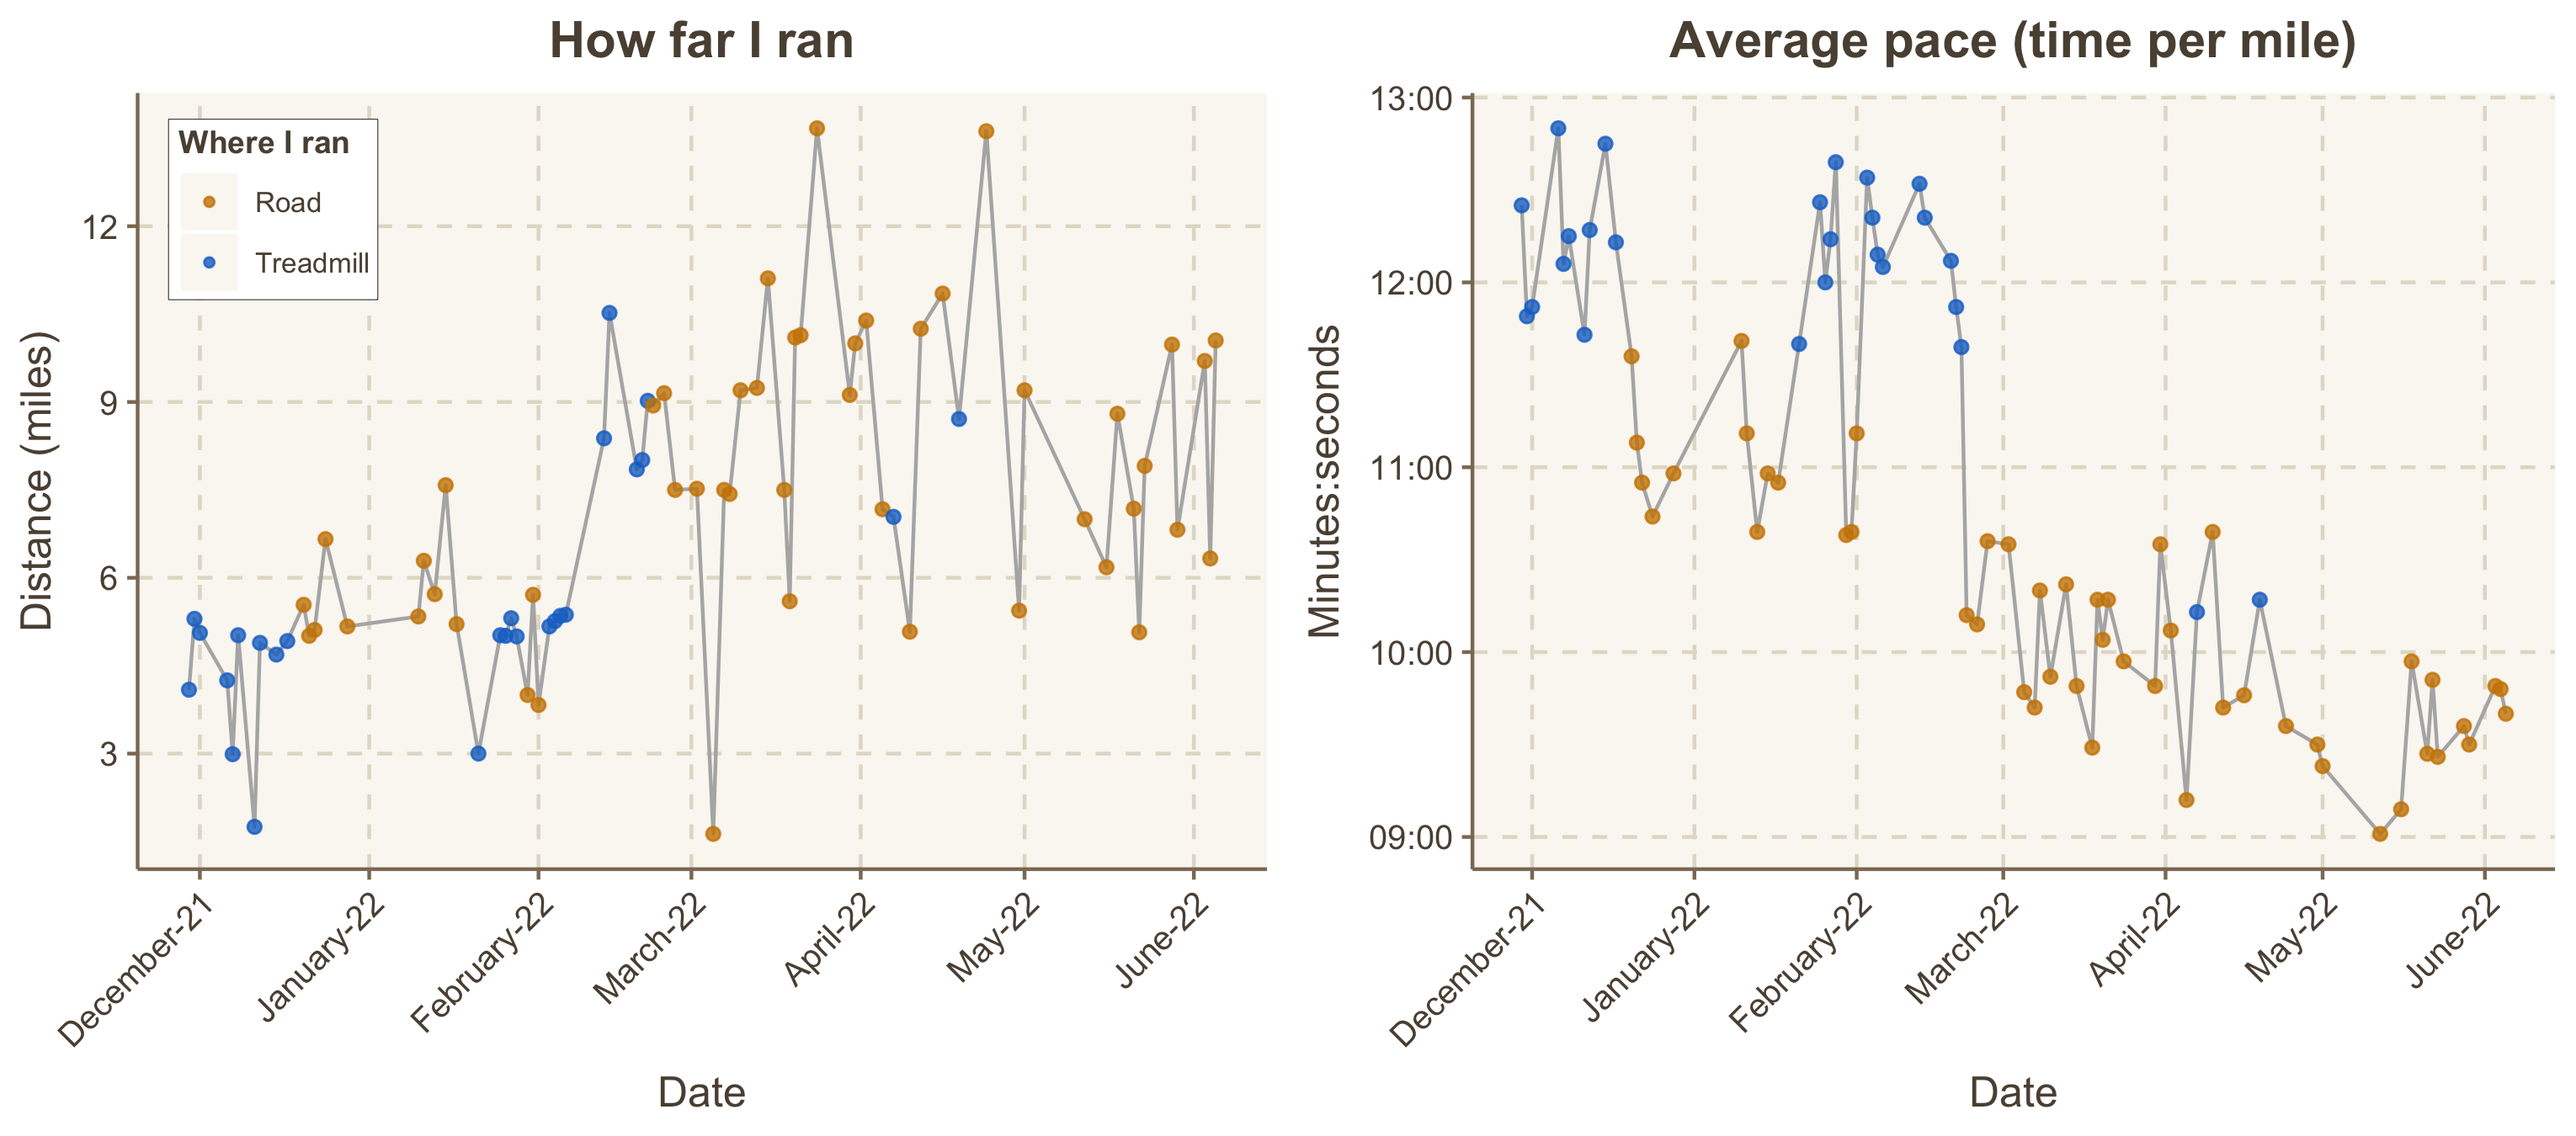
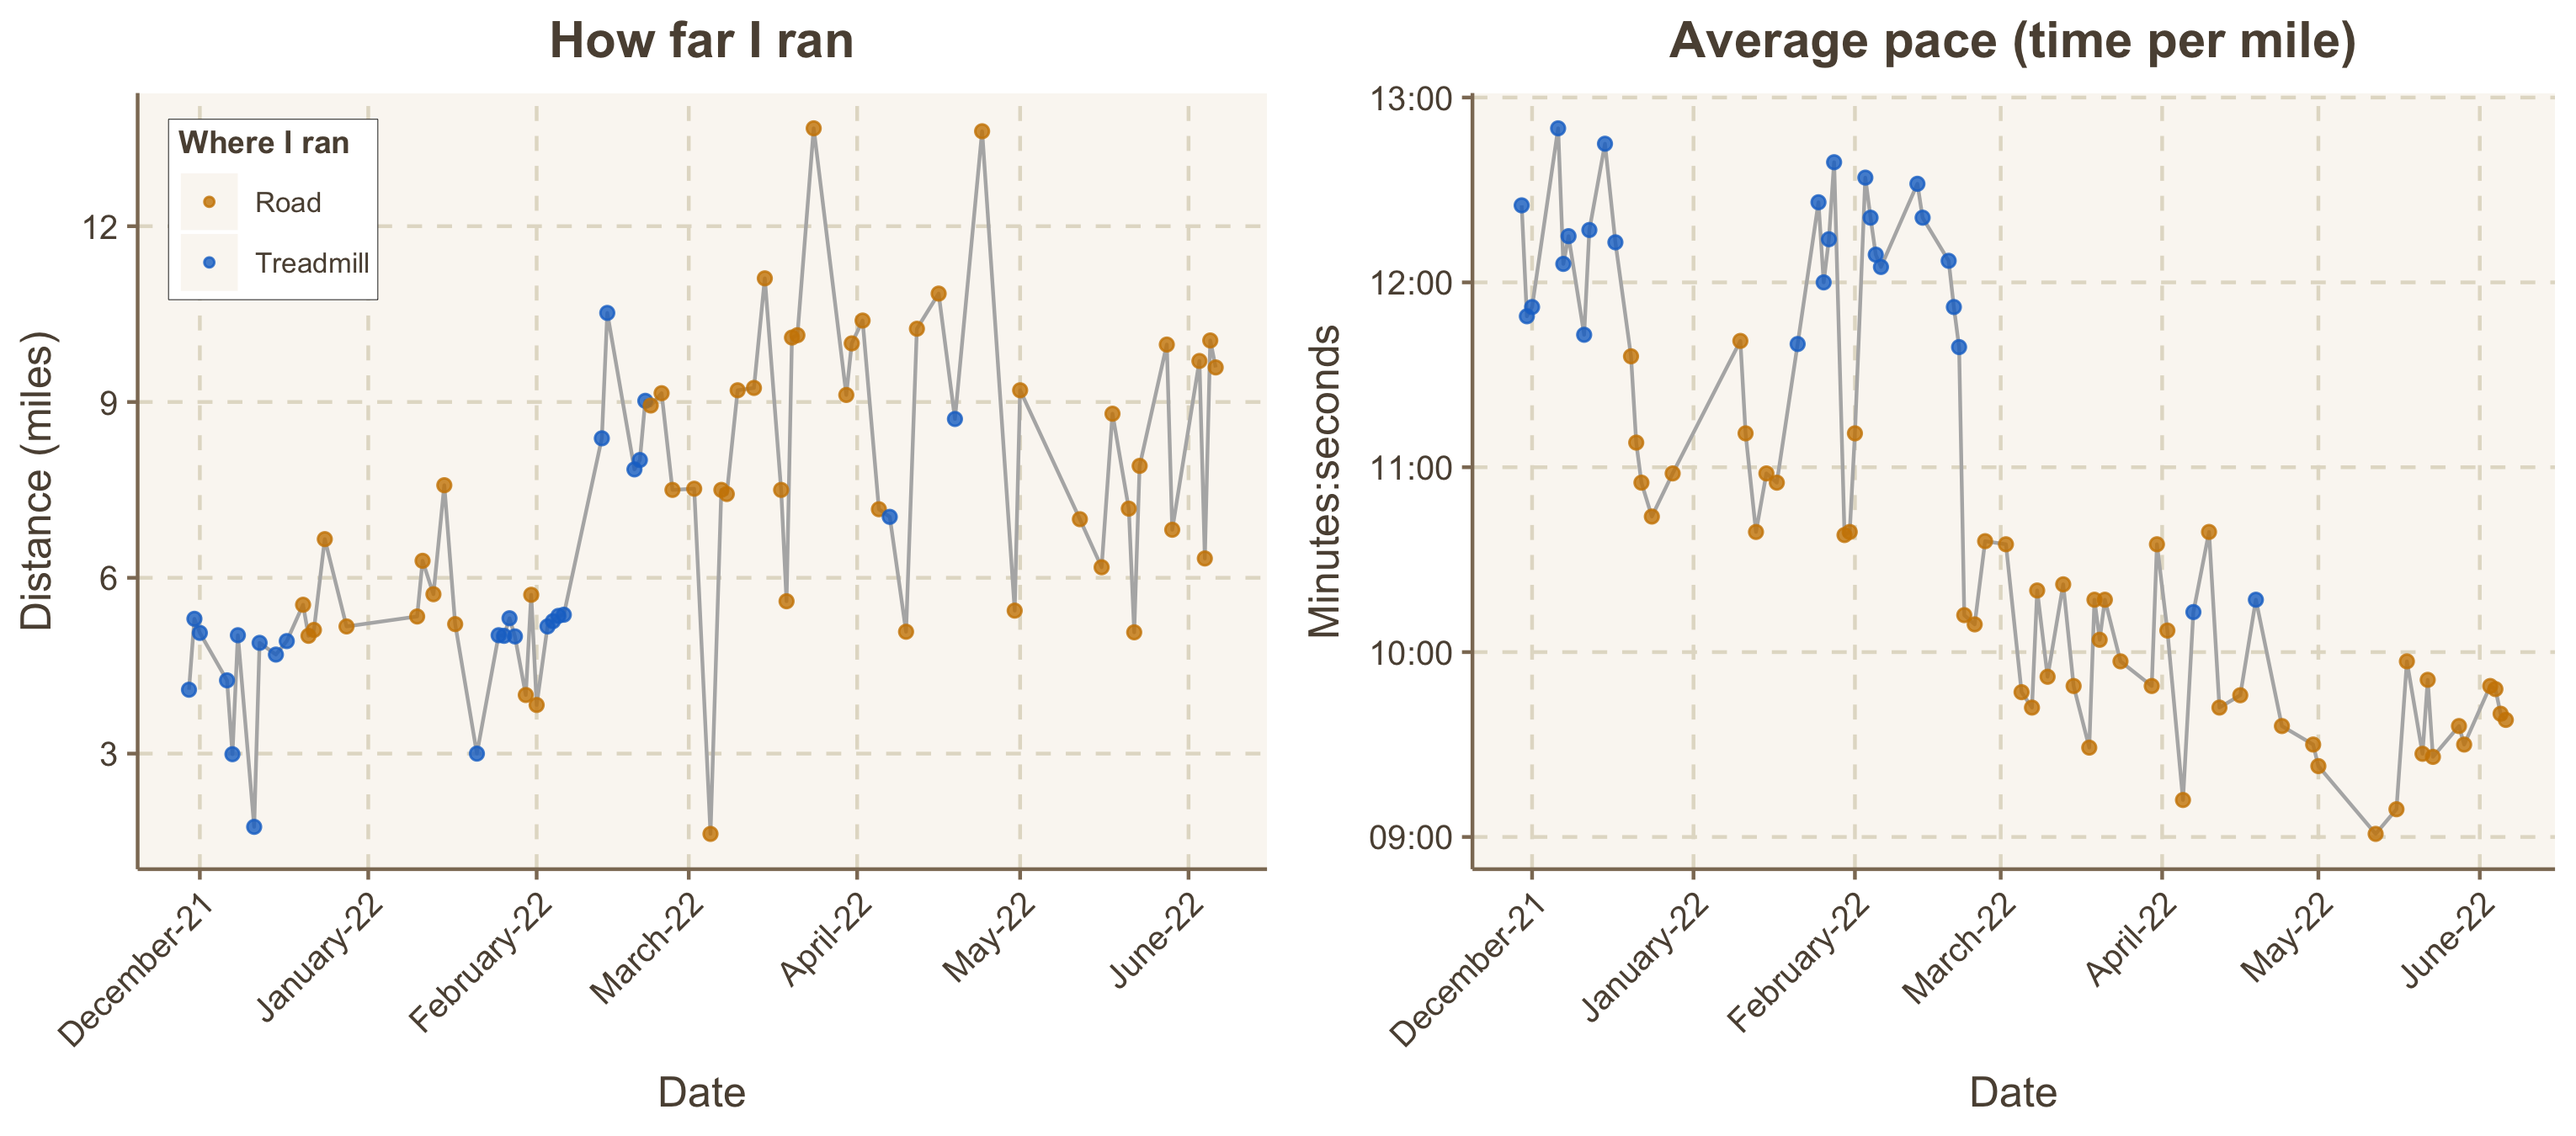
6/6/22

diff --git a/README.md b/README.md
@@ -25,7 +25,7 @@ ggarrange(p1, p2, nrow=1)
 sum(runningData$Miles)
 ```
 
-    ## [1] 520.52
+    ## [1] 530.11
 
 Average distance during the last 10 runs:
 
@@ -33,4 +33,4 @@ Average distance during the last 10 runs:
 mean(tail(runningData$Miles, 10))
 ```
 
-    ## [1] 7.802
+    ## [1] 8.143
